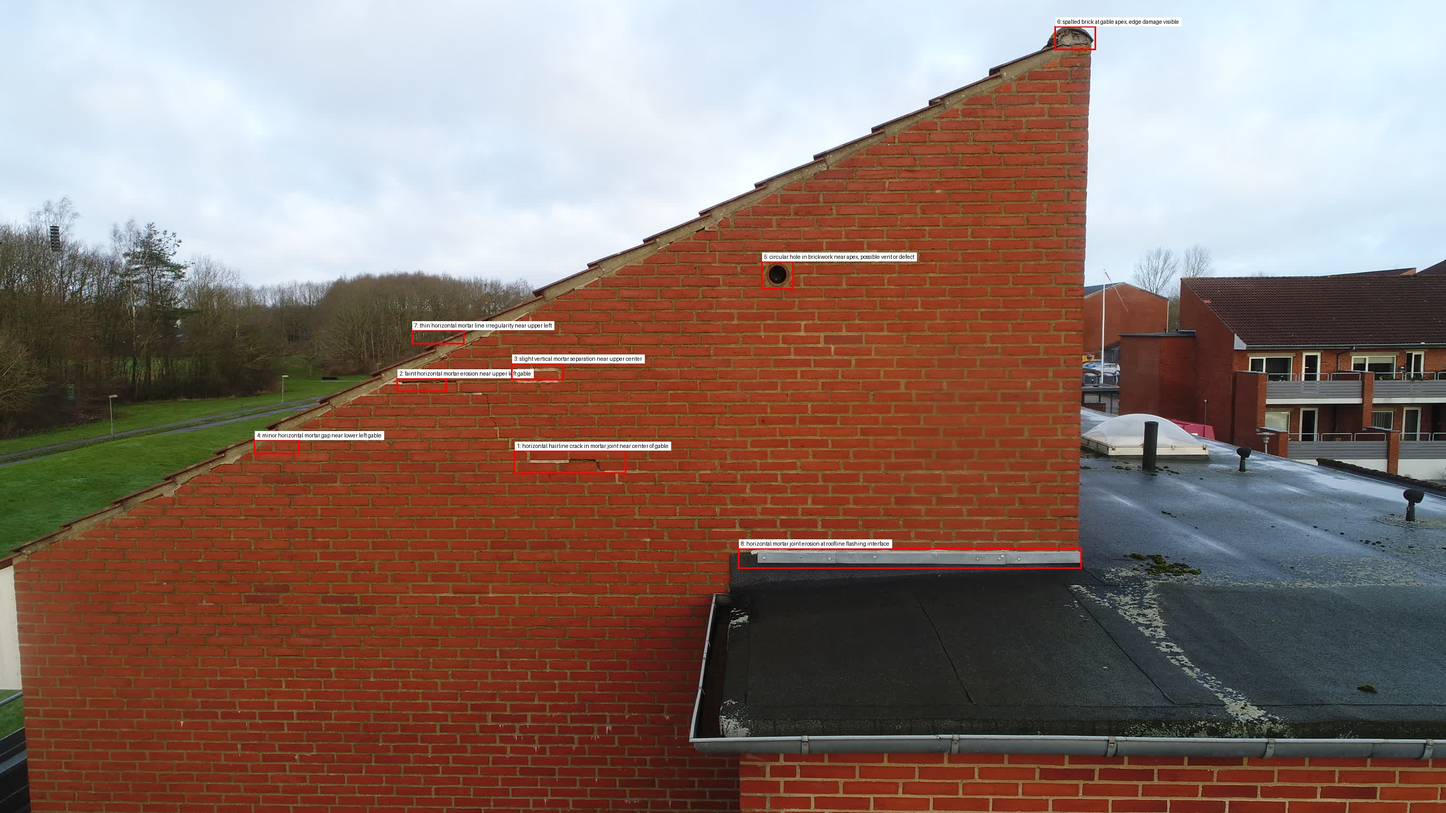
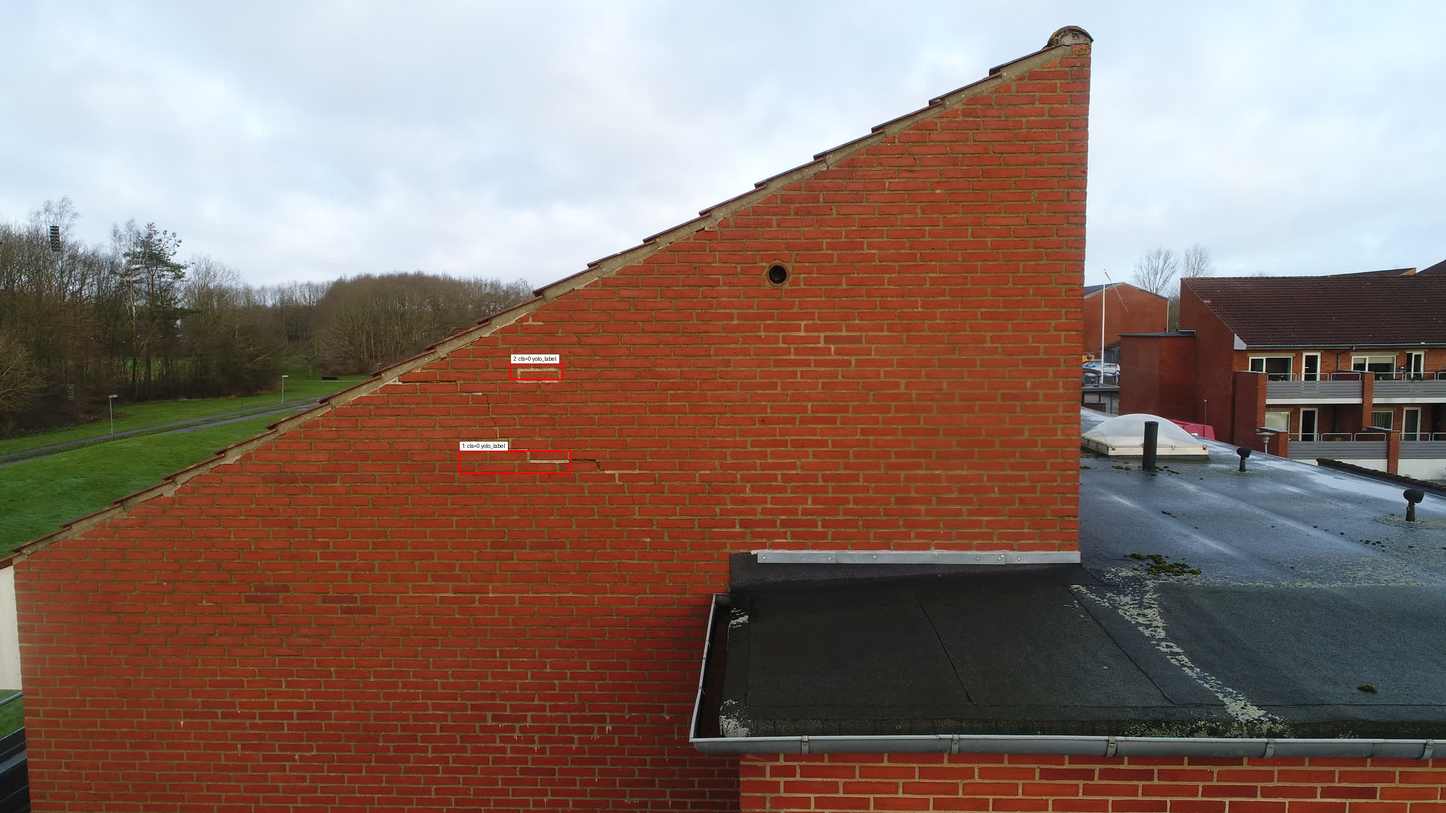
until now

diff --git a/analyze_drone_image.py b/analyze_drone_image.py
@@ -69,20 +69,40 @@ def analyze_drone_image():
             {
                 "role": "user",
                 "content": (
-                    "Your task is to scan the entire brick wall surface in this image and identify every visible crack, hairline fracture, spalled brick, "
-                    "eroded mortar joint, displaced brick, or any deviation from uniform brickwork — no matter how small, faint, or ambiguous. "
-                    "\n\nAssume defects exist — your priority is sensitivity, not precision. Do not skip anything that could be a crack or mortar issue. "
-                    "\n\nFor each defect: "
-                    "\n- Output a bounding box in YOLO normalized format: [class_id, x_center, y_center, width, height] where all coordinates are 0.0-1.0. "
-                    "\n- Write a concise technical description: e.g., 'vertical hairline crack in mortar', 'spalled brick at upper left', 'horizontal mortar erosion near roofline'. "
-                    "\n\nYOLO Bounding Box Format: Uses normalized coordinates in the pattern '<class_id> <x_center> <y_center> <width> <height>' "
-                    "where all values are normalized to 0.0-1.0 range relative to image dimensions. x_center and y_center represent "
-                    "the box center point (0.0=left/top edge, 1.0=right/bottom edge), while width and height are fractions of image dimensions. "
-                    "class_id is always 0 for cracks. "
-                    "\n\nReturn ONLY valid JSON in this exact format — no extra text, no explanations: "
-                    "\n{ \"cracks\": [ {\"bbox_2d\": [0, <x_center>, <y_center>, <width>, <height>], \"description\": \"...\"} ] } "
-                    "\n\nIf you find absolutely nothing (unlikely), return { \"cracks\": [] }. "
-                    "\n\n⚠ Never ignore thin lines, color variations, or irregularities — they may indicate early-stage cracking."
+                    "You are inspecting a brick wall for structural defects. Scan EVERY part of the image systematically and identify ALL visible issues:\n"
+                    "- Cracks (hairline, vertical, horizontal, diagonal)\n"
+                    "- Mortar erosion or gaps in joints\n"
+                    "- Spalled or damaged bricks\n"
+                    "- Color variations indicating water damage\n"
+                    "- Any irregularities in the brickwork\n\n"
+                    
+                    "CRITICAL INSTRUCTIONS:\n"
+                    "1. Each defect needs its OWN SMALL bounding box - draw tight boxes around individual cracks, not large areas\n"
+                    "2. If you see 5 different cracks, create 5 separate bounding boxes\n"
+                    "3. Small cracks should have small boxes (width/height around 0.02-0.10)\n"
+                    "4. DO NOT create one large box covering multiple defects\n\n"
+                    
+                    "OUTPUT FORMAT - You MUST return EXACTLY 5 values in bbox_2d array:\n"
+                    "\"bbox_2d\": [0, x_center, y_center, width, height]\n\n"
+                    
+                    "Where:\n"
+                    "- First value is ALWAYS 0 (class_id for crack)\n"
+                    "- x_center: horizontal center of the crack (0.0=left edge, 1.0=right edge)\n"
+                    "- y_center: vertical center of the crack (0.0=top, 1.0=bottom)\n"
+                    "- width: crack width as fraction of image (typically 0.02-0.10 for thin cracks)\n"
+                    "- height: crack height as fraction of image (typically 0.02-0.10 for small cracks)\n\n"
+                    
+                    "EXAMPLE of correct format:\n"
+                    "{\n"
+                    "  \"cracks\": [\n"
+                    "    {\"bbox_2d\": [0, 0.356, 0.568, 0.076, 0.026], \"description\": \"horizontal hairline crack in mortar joint\"},\n"
+                    "    {\"bbox_2d\": [0, 0.291, 0.473, 0.033, 0.014], \"description\": \"faint horizontal mortar erosion\"},\n"
+                    "    {\"bbox_2d\": [0, 0.371, 0.457, 0.035, 0.018], \"description\": \"slight vertical mortar separation\"}\n"
+                    "  ]\n"
+                    "}\n\n"
+                    
+                    "Return ONLY valid JSON - no extra text. If you find nothing, return {\"cracks\": []}.\n"
+                    "⚠ Be thorough - typical drone images have 5-15 detectable defects."
                 ),
                 "images": [image_base64]
             }

diff --git a/annotate_bboxes_from_url.py b/annotate_bboxes_from_url.py
@@ -43,7 +43,26 @@ DEFAULT_IMAGE_URL = (
 
 DEFAULT_DATA = {
     "boxes": [
-       
+         {
+      "bbox_2d": [
+        0,
+        0.371,
+        0.457,
+        0.035,
+        0.018
+      ],
+      "description": "slight vertical mortar separation"
+    },
+    {
+      "bbox_2d": [
+        0,
+        0.356,
+        0.568,
+        0.076,
+        0.026
+      ],
+      "description": "horizontal hairline crack in mortar joint"
+    }
     ]
 }
 

diff --git a/ReadMe.md b/ReadMe.md
@@ -33,4 +33,4 @@ python annotate_bboxes_multi_format.py --file "img.jpg" \
 python annotate_bboxes_multi_format.py --file "img.jpg" \
   --labels-yolo "input.txt" --export-yolo "out.yolo.txt" --export-qwen "out.qwen.txt"
 
-  python annotate_bboxes_from_url.py --url "https://obj3423.public-dk6.clu4.obj.storagefactory.io/dev-poc-drone-images/Chat/Testpulje_small/Folder%202/DJI_0942.JPG" --out url_DJI_0942.jpg --labels-yolo "labels.txt"
+  python annotate_bboxes_from_url.py --url "https://obj3423.public-dk6.clu4.obj.storagefactory.io/dev-poc-drone-images/Chat/Testpulje_small/Folder%202/DJI_0942.JPG" --out url_DJI_0942.jpg --labels-yolo "DJI_0942.txt"
